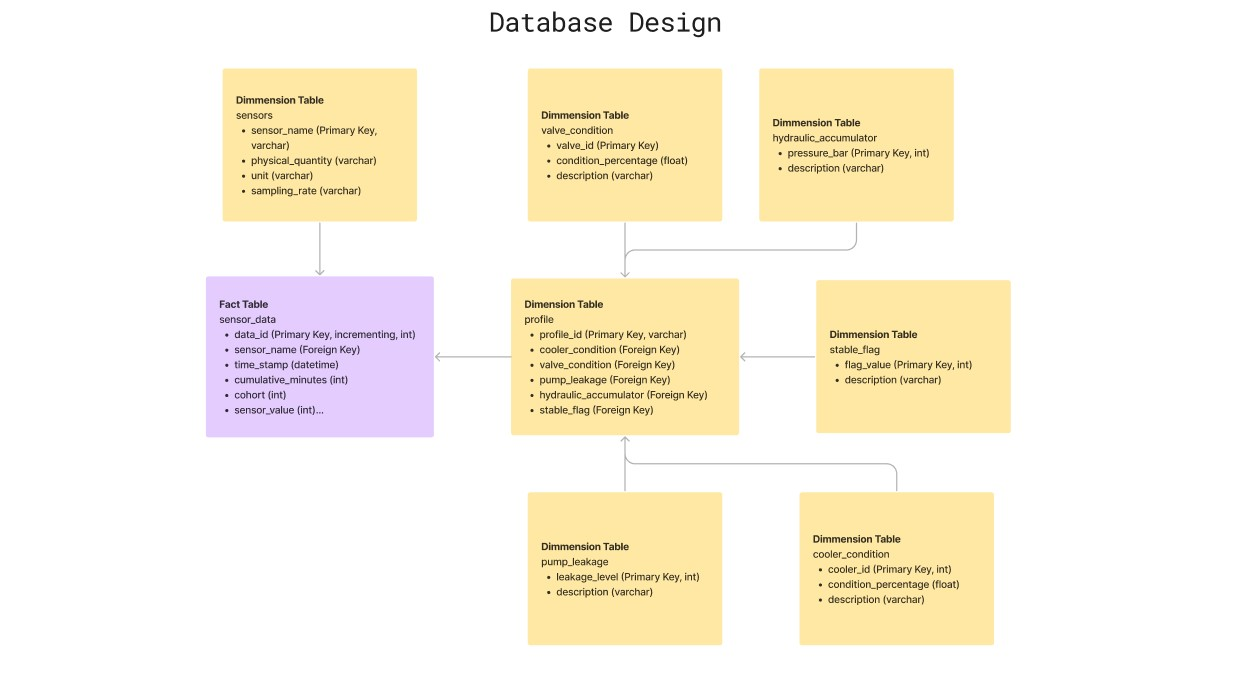
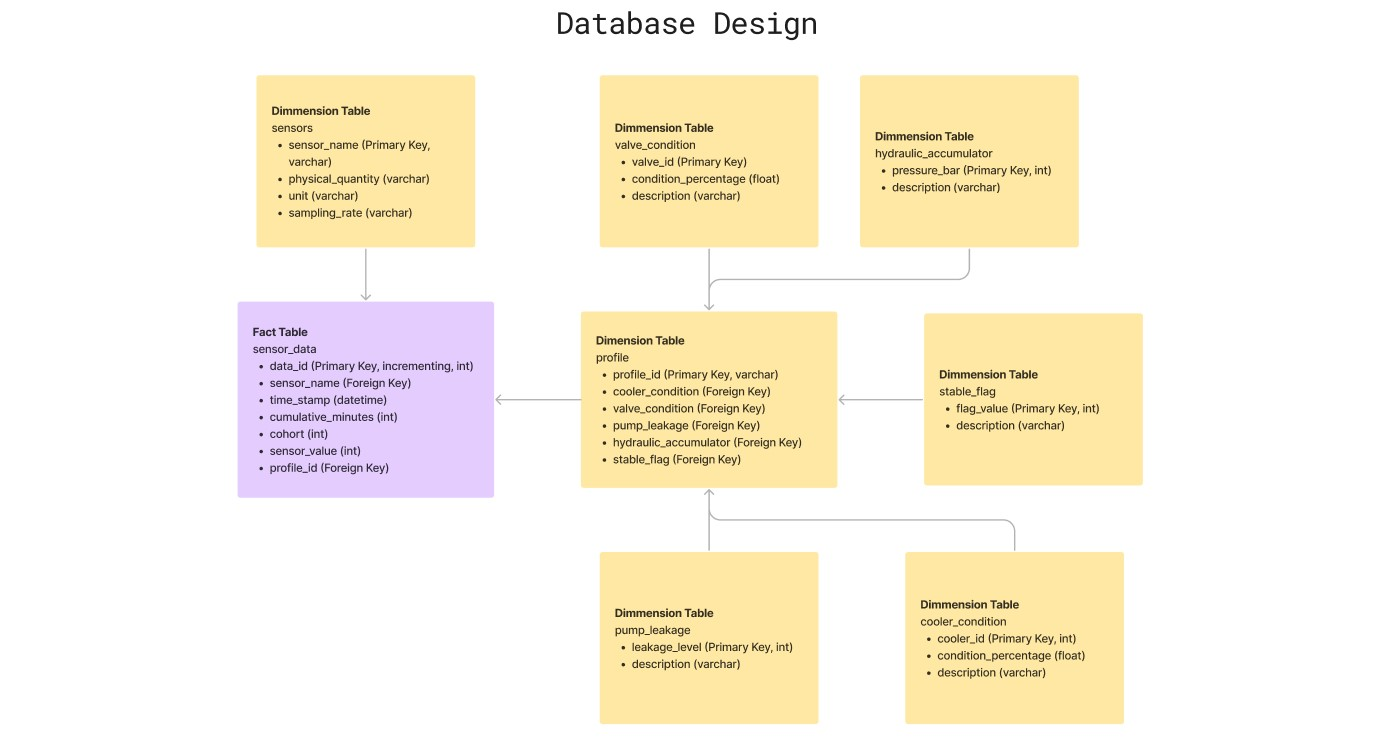
new py sql image readme

diff --git a/tab-to-csv.py b/tab-to-csv.py
@@ -1,0 +1,45 @@
+import pandas as pd
+import os
+import datetime
+
+data_location = r'./data/'
+
+for files in os.listdir(path=data_location):
+    file_name, file_ext = os.path.splitext(files)
+    df = pd.DataFrame()
+    for i in range(60):
+        df2 = pd.DataFrame(columns=[file_name])  # Add columns and index, will get index error otherwise
+
+        df2[file_name] = pd.read_table(f'./data/{files}', index_col=False, delim_whitespace=True, header=None, usecols=[i], encoding='latin-1')
+
+        # insert the value of 1 and increase by 1 for every rows
+        df2['cohort'] = [i + 1 for cohort in range(df2.shape[0])]
+
+        # Create a datetime series
+        start_date = datetime.datetime(2008, 3, 26, 0, 0)
+        timedelta_per_iteration = datetime.timedelta(days=92 * i)
+        start_date_updated = start_date + timedelta_per_iteration
+        end_date_updated = start_date_updated + datetime.timedelta(hours=2204)
+        # update times for each iteration
+        start_date = start_date_updated
+        end_date = end_date_updated
+        datetime_series = pd.date_range(start=start_date, end=end_date, freq='H')
+
+        df2['date_time'] = datetime_series
+
+        # demarcate the 1 hour iteration across the entire tracking period
+        df2['cumulative_minutes'] = range(0,60*df2.shape[0], 60)
+
+        # map with data in profile.txt
+        df2['profile'] = range(1,1+df2.shape[0])
+
+        # merge and drop
+        df = pd.concat([df, df2], ignore_index=True)
+        df2.drop(df2.iloc[0:0], axis=1, inplace=True)
+
+    # normalize column headers
+    df.columns = [x.lower() for x in df.columns]
+
+    # export
+    csv_filename = f'{file_name}.csv'
+    df.to_csv(r'./logs/' + csv_filename, index=False)

diff --git a/profile-csv.py b/profile-csv.py
@@ -1,0 +1,12 @@
+
+
+
+# oil well condition
+        profile_df = pd.read_table(r'./outcomes/profile.txt', index_col=False, delim_whitespace=True,header=None)
+
+        rofile_columns = ['cooler_condition','valve_condition','internal_pump_leakage','hydrolic_acucumlator_bar','stable_flag']
+
+        profile_df.columns = profile_columns
+
+        for c in profile_columns:
+            df[c]= profile_df[c].values
